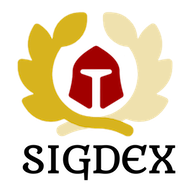
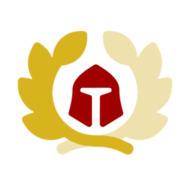
set theme and backgrund color

diff --git a/vite.config.ts b/vite.config.ts
@@ -12,6 +12,8 @@ export default defineConfig(({ command }) => ({
       manifest: {
         name: 'Sigdex',
         short_name: 'Sigdex',
+        background_color: '#000000',
+        theme_color: '#a10000',
         icons: [
           {
             src: '/assets/icon192.png',
